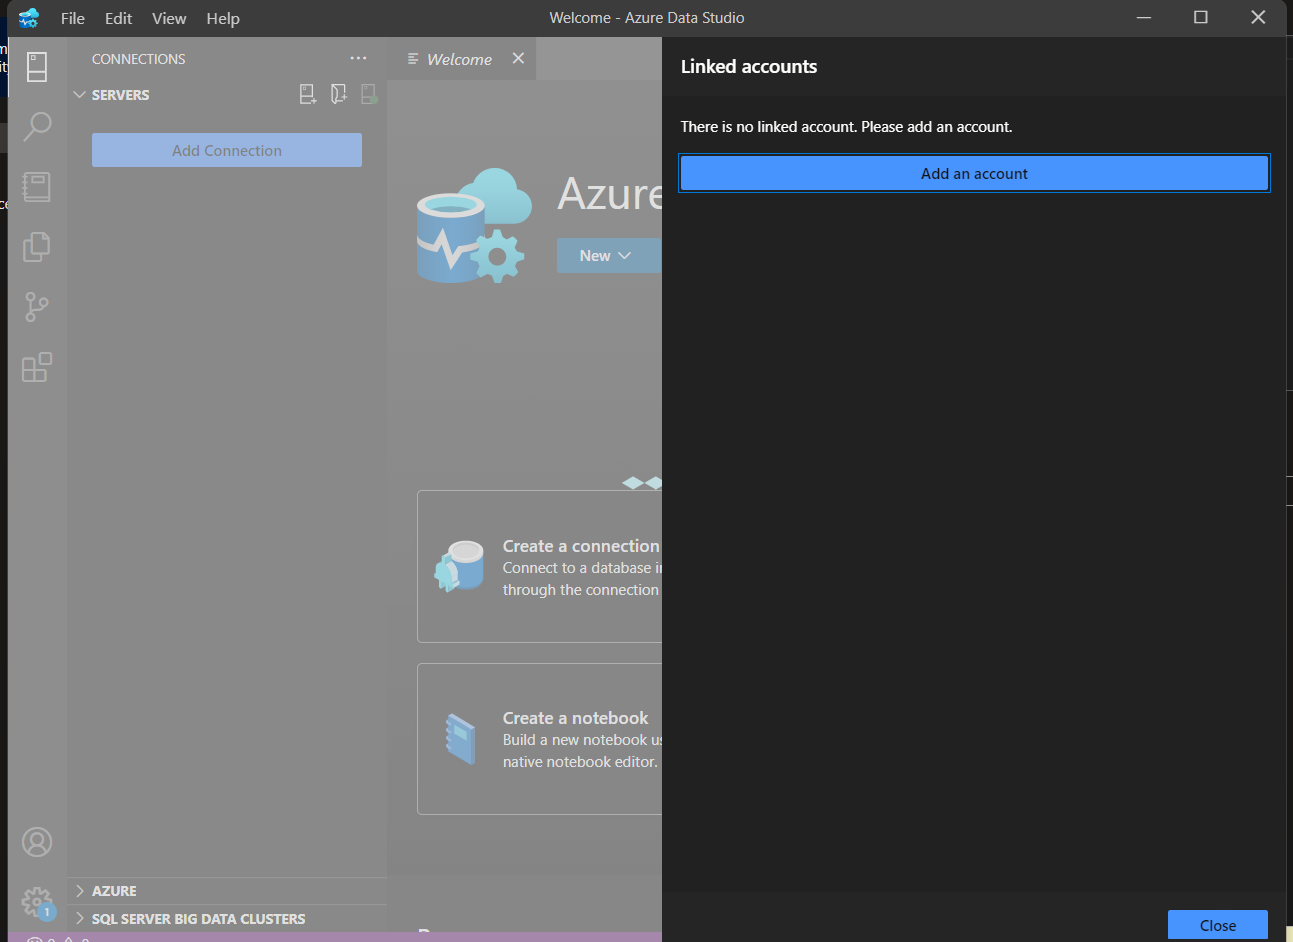
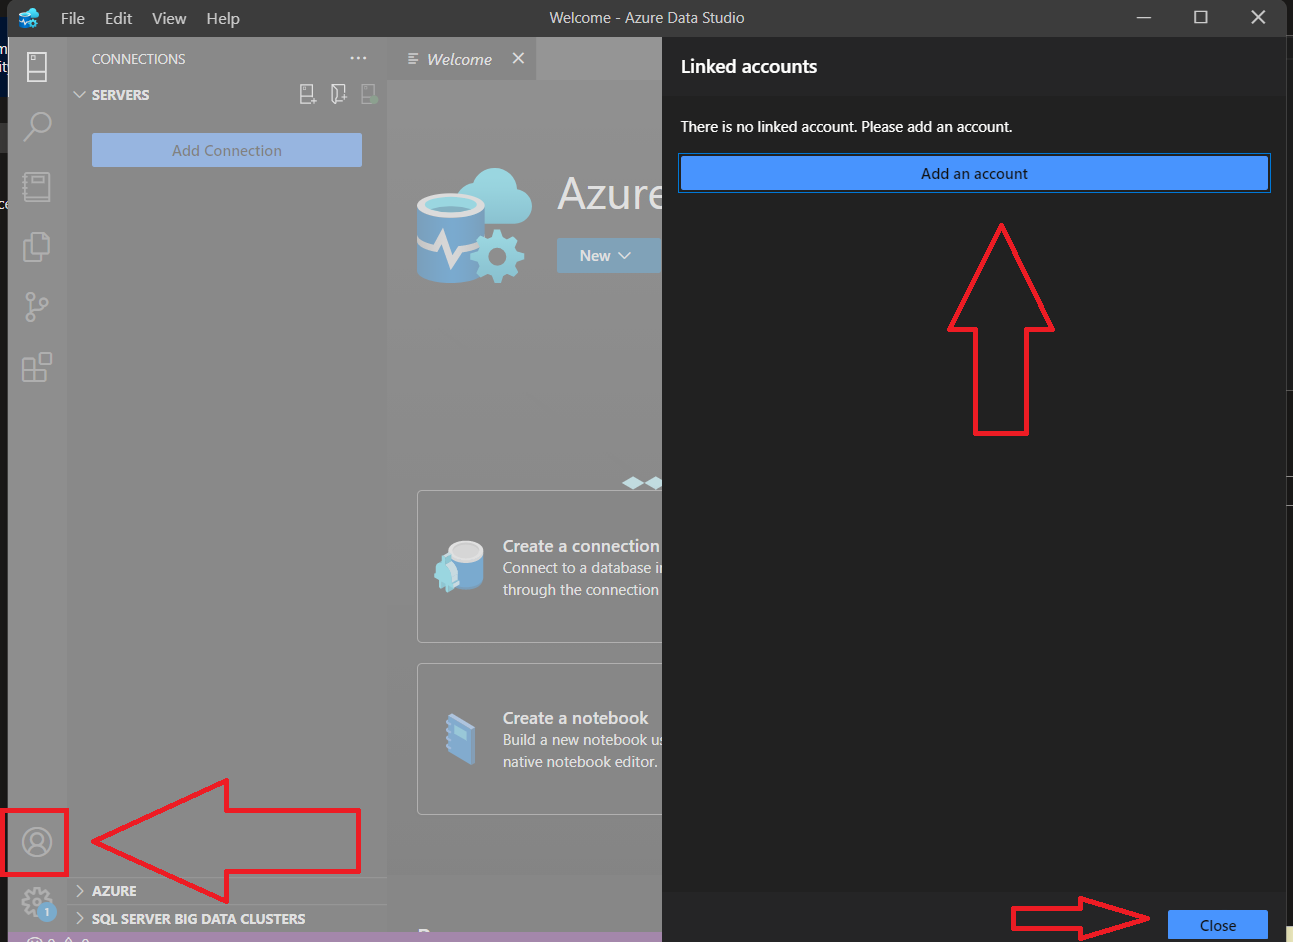
Draft 2 of Readme

diff --git a/1-web-lab/README.md b/1-web-lab/README.md
@@ -1,6 +1,6 @@
 # Azure Dev Day - Web solutions lab
 
-**Overview**: 
+**Overview**:
 
 - [Requirements](#requirements)
 - [Step 1: Deploy resources to Azure](#step-1-deploy-resources-to-azure)
@@ -10,7 +10,7 @@
 - [Step 5: Fixing connectivity issues](#step-5-fixing-connectivity-issues)
 - [Step 6: Clean up resources](#step-6-clean-up-resources)
 
-## Objectives 
+## Objectives
 
 Hosting a Web app in App Services is a great way for developers to leverage the power of Azure cloud without the need to architect complex infrastructure and networking setup but at the same time take advantage of capabilities like security, load balancing, autoscaling, automated management and continuous deployment to name a few.
 
@@ -26,32 +26,59 @@ During this lab you will learn to:
 
 We encourage you to follow along the hands-on labs during lab sessions.
 
-* If you don't have an Azure Subscription to use for these labs, please create a free subscription at https://azure.microsoft.com/free/.
-* [Visual Studio Code](https://code.visualstudio.com/) with the following extensions
-  * [Azure Tools](https://marketplace.visualstudio.com/items?itemName=ms-vscode.vscode-node-azure-pack)
-  * [Rest Client](https://marketplace.visualstudio.com/items?itemName=humao.rest-client)
-  * [Extension Pack for Java](https://marketplace.visualstudio.com/items?itemName=vscjava.vscode-java-pack)
-* [Java 11](https://docs.microsoft.com/en-us/java/openjdk/download#openjdk-11)
-* [Azure CLI](https://docs.microsoft.com/en-us/cli/azure/install-azure-cli)
-* [Git](https://git-scm.com/downloads)
+- If you don't have an Azure Subscription to use for these labs, please create a free subscription at <https://azure.microsoft.com/free/>.
+- [Visual Studio Code](https://code.visualstudio.com/) with the following extensions
+  - [Azure Tools](https://marketplace.visualstudio.com/items?itemName=ms-vscode.vscode-node-azure-pack)
+  - [Rest Client](https://marketplace.visualstudio.com/items?itemName=humao.rest-client)
+  - [Extension Pack for Java](https://marketplace.visualstudio.com/items?itemName=vscjava.vscode-java-pack)
+- [Java 11](https://docs.microsoft.com/en-us/java/openjdk/download#openjdk-11)
+- [Azure CLI](https://docs.microsoft.com/en-us/cli/azure/install-azure-cli)
+- [Git](https://git-scm.com/downloads)
 
-1. Login to the azure portal at https://portal.azure.com
+## Lab 1: Deploy and Configure Azure SQL
+
+1. Login to the azure portal at <https://portal.azure.com>
 2. Search for thew resource called **Azure SQL** and create a new instance of it.
+
+    ![Search](./media/azuresqlsearch.png)
+    ![Create SQL Server](./media/azuresqlcreate.png)
+
 3. Create a new resource group called **rg-azure-dev-day**.
+
+    ![Create Resource Group](./media/createrg.png)
+
 4. Create a new Azure SQL Server. The name needs to be qunique across Azure, so you can use your initials or something similar. For example, if your name is John Doe, you can use **jdoe-sql**.
 5. Use SQL Authentication and create a new user called **spring** with a password of your choice. Make sure to save the username and password as you will need it later.
+
+    ![Create SQL Server](./media/createdbserver.png)
+
 6. Create a new database called **db**.
+
+    ![Create DB](./media/createdbfinal.png)
+
 7. Once the database and server are created, click on go to resource.
 8. You will see a **Getting Started** page. Click on **Configure** under the Configure access section.
+
+    ![Getting Started](./media/gettingstarteddb.png)
+
 9. Under Public network access, select the radio button for **Selected networks**.
 10. Under Firewall rules, click on **+ Add your client IPv4 address**.
 11. Scroll down to the bottom of the page. Under Exception check the box for **Allow Azure services and resources to access this server**.
+
+    ![Network](./media/dbnetworking.png)
+
 12. Click on **Save**.
 13. On the left hand side of the page select **SQL databases**. Then click on your database **db**.
 14. Add a new table to the database. Option A: Use Query Editor.Option B: Use Azure Data Studio.
     - Option A:  **Query editor (preview)**.
         - Use the username and password you created earlier to login.
+
+          ![Login](./media/querypreviewsignin.png)
+
         - Click on **New Query**.
+
+            ![New Query](./media/querypreviewnewquery.png)
+
         - Copy and paste the following code into the query window.
 
             ```sql
@@ -69,11 +96,17 @@ We encourage you to follow along the hands-on labs during lab sessions.
         - Download and install [Azure Data Studio](https://docs.microsoft.com/en-us/sql/azure-data-studio/download-azure-data-studio?view=sql-server-ver15).
         - Open Azure Data Studio.
         - Click on **Accounts** icon in the bottom left.
+            
+            ![Accounts](./media/dataexplorerlinkaccount.png)
+
         - Click on **Add Account**. Follow the prompts to login to your Azure account. Then close screen Linked Accounts pane.
         - Click on **Connections** icon in the top left.
         - Click on **New Connection**.
         - At the top right switch the tab from **Recent** to **Browse**.
-        - Select Azure and compelted the prompts to connect to your Azure SQL database.
+
+            ![Azure Data Studio](./media/azuredatastudio.png)
+
+        - Select Azure and completed the prompts to connect to your Azure SQL database.
         - The information at the bottom of the screen will fill itself in, you just need to switch the authentication type to **SQL Login** and enter the username and password you created earlier.
         - Enter the server name, username and password you created earlier.
         - Click on **Connect**.
@@ -92,19 +125,28 @@ We encourage you to follow along the hands-on labs during lab sessions.
 
         - Click on **Run**.
 
-15. Now with the table created, we can move on to the next step. This step will create a new Web App in Azure App Services. This will be the host for our application. Use the search bar at the top of the page to search for **App Services**. Then click on **App Services**.
-16. Click on **Create**.
-17. Use the same resource group you created earlier (**rg-azure-dev-day**).
-18. Name the app a unique name. For example, if your name is John Doe, you can use **jdoe-app**.
-19. Select **Java 11** for the runtime stack.
-20. Select **Linux** for the operating system.
-21. Select **Java SE** for the Java version.
-22. Use the same region as your Azure SQL database.
-23. Change the SKU and size to **F1**. This can be found under the Dev/Test section.
-24. Click on **Review + create**. Then click on **Create**.
-25. Once the app is created, click on **Go to resource**.
-26. Configure the app to connect to the Azure SQL database. Click on **Configuration**. 
-27. Click on **Advanced edit**. Then paste the following code into the middle of the square brackets.
+## Lab 2: Deploy and Configure App Service
+
+1. Now with the table created, we can move on to the next step. This step will create a new Web App in Azure App Services. This will be the host for our application. Use the search bar at the top of the page to search for **App Services**. Then click on **App Services**.
+2. Click on **Create**.
+3. Use the same resource group you created earlier (**rg-azure-dev-day**).
+4. Name the app a unique name. For example, if your name is John Doe, you can use **jdoe-app**.
+5. Select **Java 11** for the runtime stack.
+6. Select **Linux** for the operating system.
+7. Select **Java SE** for the Java version.
+8. Use the same region as your Azure SQL database.
+9. Change the SKU and size to **F1**. This can be found under the Dev/Test section.
+
+    ![App Service](./media/f1.png)
+
+10. Final result should look like this.
+
+    ![App Service](./media/webapp.png)
+
+11. Click on **Review + create**. Then click on **Create**.
+12. Once the app is created, click on **Go to resource**.
+13. Configure the app to connect to the Azure SQL database. Click on **Configuration**.
+14. Click on **Advanced edit**. Then paste the following code into the middle of the square brackets.
 
     ```json
     {
@@ -145,9 +187,44 @@ We encourage you to follow along the hands-on labs during lab sessions.
         "slotSetting": false
     }
     ```
-28. Click on **OK**. Then click on **Save** and **Continue**.
-29. Open Azure Cloud Shell. Click on the **Cloud Shell** icon in the top right of the portal. Then click on **Bash**. This will open a terminal window in the portal. You may need to create a storage account. If so, follow the prompts.
-30. In the terminal window, run the following command to clone the repository.
+
+    Final Result should look like this
+
+    ![JSON](./media/configsetting.png)
+
+15. Click on **OK**. Then click on **Save** and **Continue**.
+
+## Lab 3: Use Cloud Shell to Deploy the Application
+
+1. Open Azure Cloud Shell. Click on the **Cloud Shell** icon in the top right of the portal. Then click on **Bash**. This will open a terminal window in the portal. You may need to create a storage account. If so, follow the prompts.
+2. In the terminal window, run the following command to clone the repository and navigate to the project folder.
 
     ```bash
-    git clone 
+    git clone https://github.com/microsoft/azure-dev-day-java.git && cd azure-dev-day-java/1-web-lab
+    ```
+
+3. In the terminal window, run the following command to build the project.
+
+    ```bash
+    mvn package
+    ```
+
+4. In the terminal window, run the following command to deploy the project to the Azure App Service.
+
+    ```bash
+    az webapp deploy --resource-group rg-azure-dev-day --name app-add  --src-path target/demo.jar --type jar --async true
+    ```
+
+5. In the terminal window, run the following command to get the URL of the site. Or you can find it in the Azure portal in your App Service.
+
+    ```bash
+    az webapp show --resource-group rg-azure-dev-day --name app-add --query defaultHostName --output tsv
+    ```
+
+    or in the top right of this image you can see the URL. Navigate to your App Service in the Azure portal and click on **Overview**. Then you will see your URL.
+
+    ![App Service URL](./media/app-service-url.png))  
+
+6. Copy the URL and paste it into a new browser tab. You should see the following page.
+
+    ![Web App](./media/WorkingApp.png)
